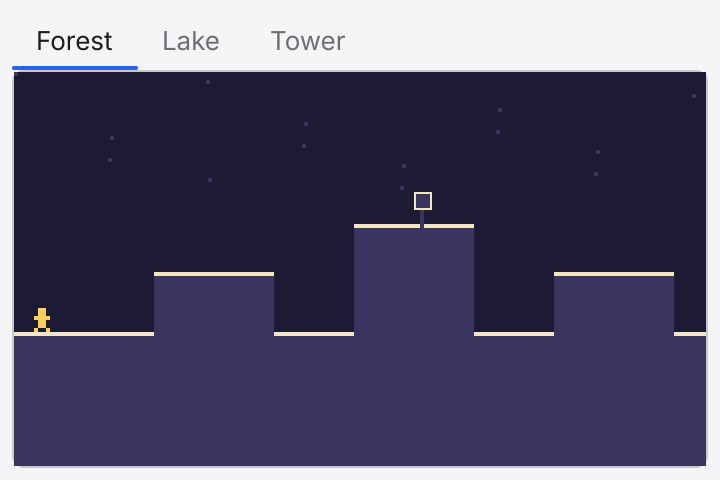
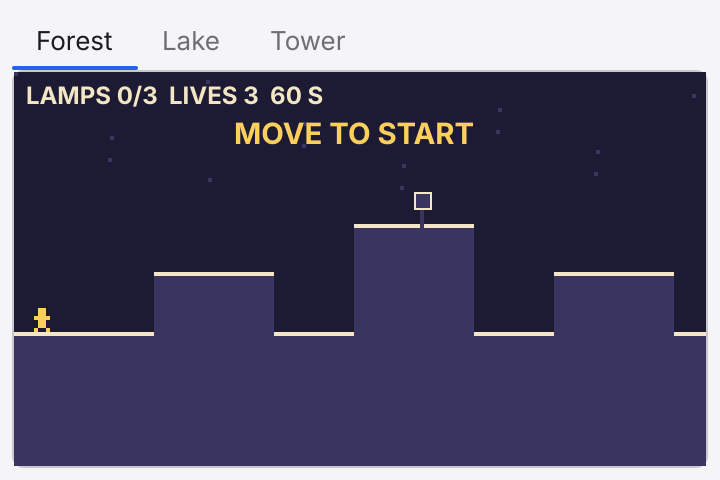
Give Lamplighter a clock of 60 seconds and 3 lives
The round starts at the first move. A fall into the water of the Lake
costs a life, and the round ends when the 3 lamps are lit, the lives
run out, or the clock runs out. Up or Space then starts a new round:
the lamps go dark, and the tabs get their names back. Each scene shows
the lamps, the lives, and the seconds.

Changed region(s): [[0.0306, 0.1562, 0.4583, 0.2188], [0.3056, 0.25, 0.6722, 0.3125]]

diff --git a/docs/widgets/panes.md b/docs/widgets/panes.md
@@ -148,7 +148,7 @@ pack .n -fill both -expand 1 -padx 8 -pady 8
 
 ### Play: Lamplighter
 
-Lamplighter is a platform game, and each tab of a `ttk::notebook` is one scene of its world: Forest, Lake, and Tower. Left and Right walk, and Up or Space jumps. On the handheld, B and A walk and Up jumps. At the right edge of a scene, the game calls `.nb select` with the next tab, and at the left edge with the tab before it. A click on a tab sends `<<NotebookTabChanged>>`, and the binding puts the hero in that scene. Light the lamp of each scene: `.nb tab` then adds "(lit)" to the text of its tab. The red spring at the top of the Tower throws the hero up. With "Play on the page" on, the hero flies out of the scene, bounces off the headings and the code, and drops back in.
+Lamplighter is a platform game, and each tab of a `ttk::notebook` is one scene of its world: Forest, Lake, and Tower. Left and Right walk, and Up or Space jumps. On the handheld, B and A walk and Up jumps. At the right edge of a scene, the game calls `.nb select` with the next tab, and at the left edge with the tab before it. A click on a tab sends `<<NotebookTabChanged>>`, and the binding puts the hero in that scene. Light the lamp of each scene: `.nb tab` then adds "(lit)" to the text of its tab. The red spring at the top of the Tower throws the hero up. Light the 3 lamps in 60 seconds. The clock starts at the first move. A fall into the water of the Lake costs one of 3 lives, and the round ends when the lives or the time run out. Up or Space then starts a new round. With "Play on the page" on, the hero flies out of the scene, bounces off the headings and the code, and drops back in.
 
 <!-- widget: toy-lamplighter; shot: update -->
 ```tcl
@@ -182,11 +182,28 @@ foreach {name blocks lamp spring} $scenes {
         incr y 2
     }
     $c itemconfigure hero -state hidden
+    $c create text 6 4 -anchor nw -tags hud -fill [lindex $ink 1] \
+        -font {TkFixedFont 9 bold}
+    $c create text 170 30 -tags msg -fill [lindex $ink 3] \
+        -font {TkFixedFont 11 bold}
     incr i
 }
 array set toy {spill 0 out {} back {} sfx {}}
 array set h {x 10 y 118 vx 0 vy 0 scene 0 out 0 next 10}
 array set hold {left 0 right 0}
+# The round: 60 seconds and 3 lives to light the 3 lamps. The clock
+# starts at the first move, and a fall into the water costs a life.
+array set g {state ready lives 3 frames 3600 lit 0 msg "MOVE TO START"}
+proc over {text} { set ::g(state) over; set ::g(msg) "$text - JUMP TO PLAY AGAIN" }
+proc reset {} {
+    global g scenes ink
+    array set g {state ready lives 3 frames 3600 lit 0 msg "MOVE TO START"}
+    foreach {name blocks lamp spring} $scenes n {0 1 2} {
+        .nb tab $n -text $name
+        .nb.s$n itemconfigure lamp -fill [lindex $ink 4]
+    }
+    if {[.nb index current] == 0} { enter 0 10 } else { .nb select 0 }
+}
 # A click on a tab moves the hero to the left side of that scene.
 bind .nb <<NotebookTabChanged>> { enter [.nb index current] $h(next); set h(next) 10 }
 proc enter {n x} {
@@ -197,7 +214,8 @@ proc enter {n x} {
     focus .nb.s$n
 }
 proc toy_press {key} {
-    global h hold
+    global h hold g
+    if {$g(state) eq "over"} { if {$key eq "up"} reset; return }
     switch $key {
         up { if {$h(vy) == 0} { set h(vy) -7; lappend ::toy(sfx) hit } }
         a { set hold(right) 6 } b { set hold(left) 6 }
@@ -207,9 +225,12 @@ foreach k {Left Right} { set v [string tolower $k]; bind . <KeyPress-$k> "set ho
 bind . <KeyPress-Up> {toy_press up}
 bind . <KeyPress-space> {toy_press up}
 proc tick {} {
-    global h hold scenes toy ink
+    global h hold scenes toy ink g
     set c .nb.s$h(scene)
-    if {!$h(out)} {
+    set moved [expr {$hold(left) || $hold(right) || $h(vy) < 0}]
+    if {$g(state) eq "ready" && $moved} { set g(state) run; set g(msg) "" }
+    if {$g(state) eq "run" && [incr g(frames) -1] <= 0} { over "TIME IS UP" }
+    if {!$h(out) && $g(state) ne "over"} {
         set h(vx) [expr {($hold(right) > 0) * 2 - ($hold(left) > 0) * 2}]
         foreach k {left right} { if {$hold($k) > 0 && $hold($k) < 999} { incr hold($k) -1 } }
         set h(vy) [expr {$h(vy) + 0.4}]
@@ -233,12 +254,18 @@ proc tick {} {
             $c itemconfigure lamp -fill [lindex $ink 3]
             .nb tab $h(scene) -text "[.nb tab $h(scene) -text] (lit)"
             lappend toy(sfx) point
+            if {[incr g(lit)] == 3} {
+                over "ALL LIT, [expr {$g(frames) / 60}] S LEFT"
+            }
         }
         # The edges of a scene go to the next tab and to the last tab.
         if {$h(x) > 334 && $h(scene) < 2} { set h(next) 2; .nb select [expr {$h(scene) + 1}] }
         if {$h(x) < 0} { if {$h(scene) > 0} { set h(next) 332; .nb select [expr {$h(scene) - 1}] } else { set h(x) 0 } }
         if {$h(x) > 334} { set h(x) 334 }
-        if {$h(y) > 150} { set h(x) 10; set h(y) 100; set h(vy) 0; lappend toy(sfx) wall }
+        if {$h(y) > 150} {
+            set h(x) 10; set h(y) 100; set h(vy) 0; lappend toy(sfx) wall
+            if {$g(state) eq "run" && [incr g(lives) -1] == 0} { over "THE LAKE WINS" }
+        }
         if {$h(y) < -12} {
             if {$toy(spill)} {
                 set toy(out) [list [expr {[winfo rootx $c] - [winfo rootx .] + $h(x)}] [expr {[winfo rooty $c] - [winfo rooty .]}] 2 -10 0.35]
@@ -248,6 +275,9 @@ proc tick {} {
     }
     if {$h(out) && $toy(back) ne ""} { set h(x) [expr {min(320, max(10, [lindex $toy(back) 0]))}]; set h(y) -10; set h(vy) 0; set h(out) 0; set toy(back) {} }
     $c moveto hero [expr {$h(out) ? -20 : int($h(x))}] [expr {int($h(y))}]
+    set secs [expr {$g(frames) / 60}]
+    $c itemconfigure hud -text "LAMPS $g(lit)/3  LIVES $g(lives)  $secs S"
+    $c itemconfigure msg -text $g(msg)
     after 16 tick
 }
 enter 0 10
